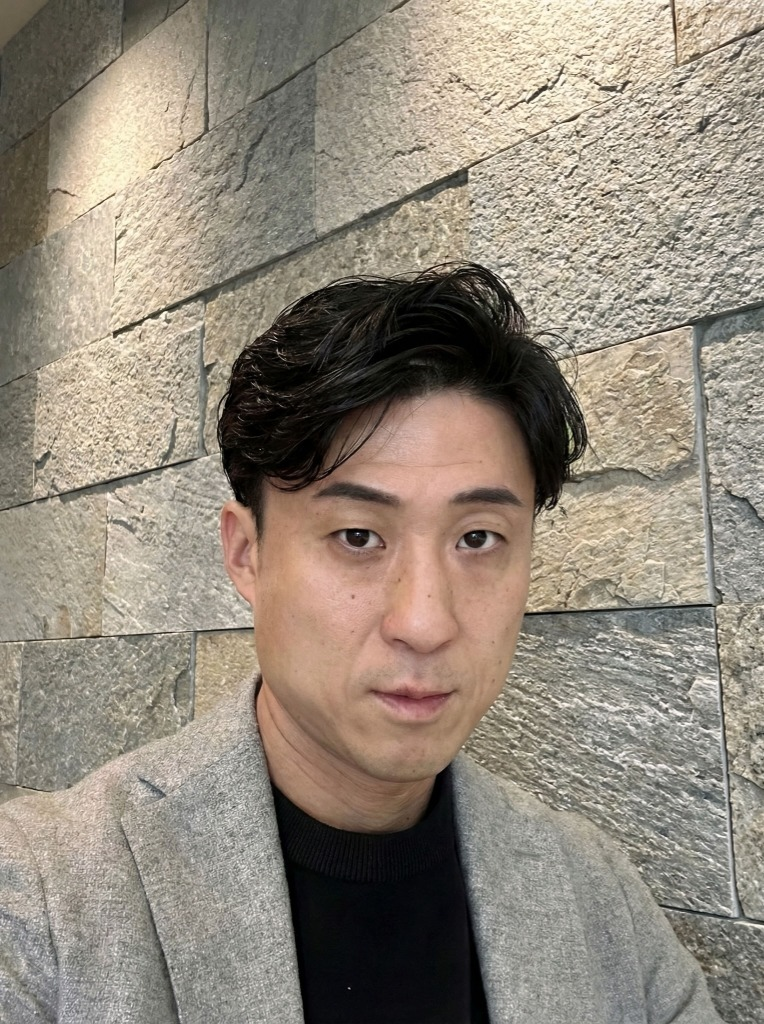
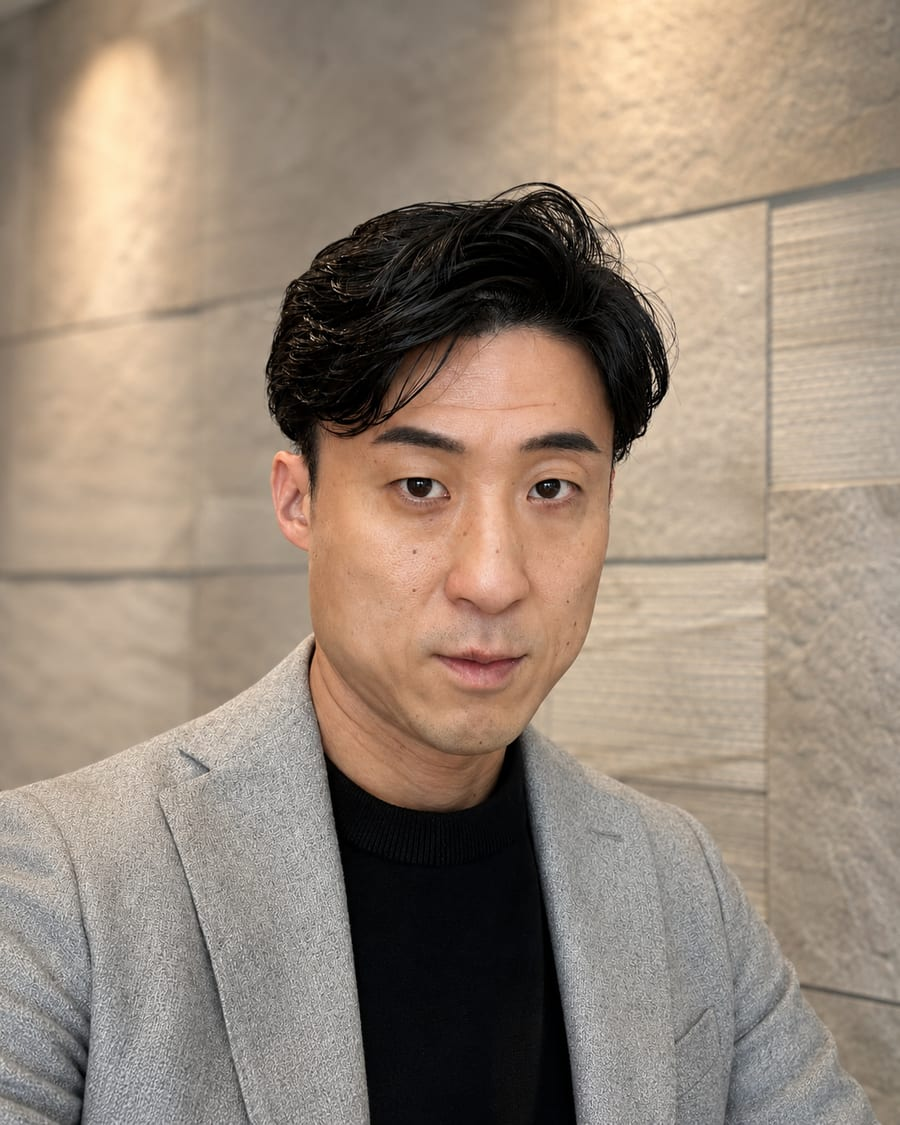
feat: 代表者写真を差し替え（トップ・理念）、理念ページの写真を縮小

diff --git a/assets/css/theme.css b/assets/css/theme.css
@@ -1357,3 +1357,15 @@ body {
     color: #9aa39c;
     letter-spacing: 0.04em;
 }
+
+/* 理念ページの代表写真を控えめに (2026-07) */
+.message-photo {
+    flex: 0 0 300px;
+}
+
+@media (max-width: 768px) {
+    .message-photo {
+        max-width: 260px;
+        margin: 0 auto;
+    }
+}